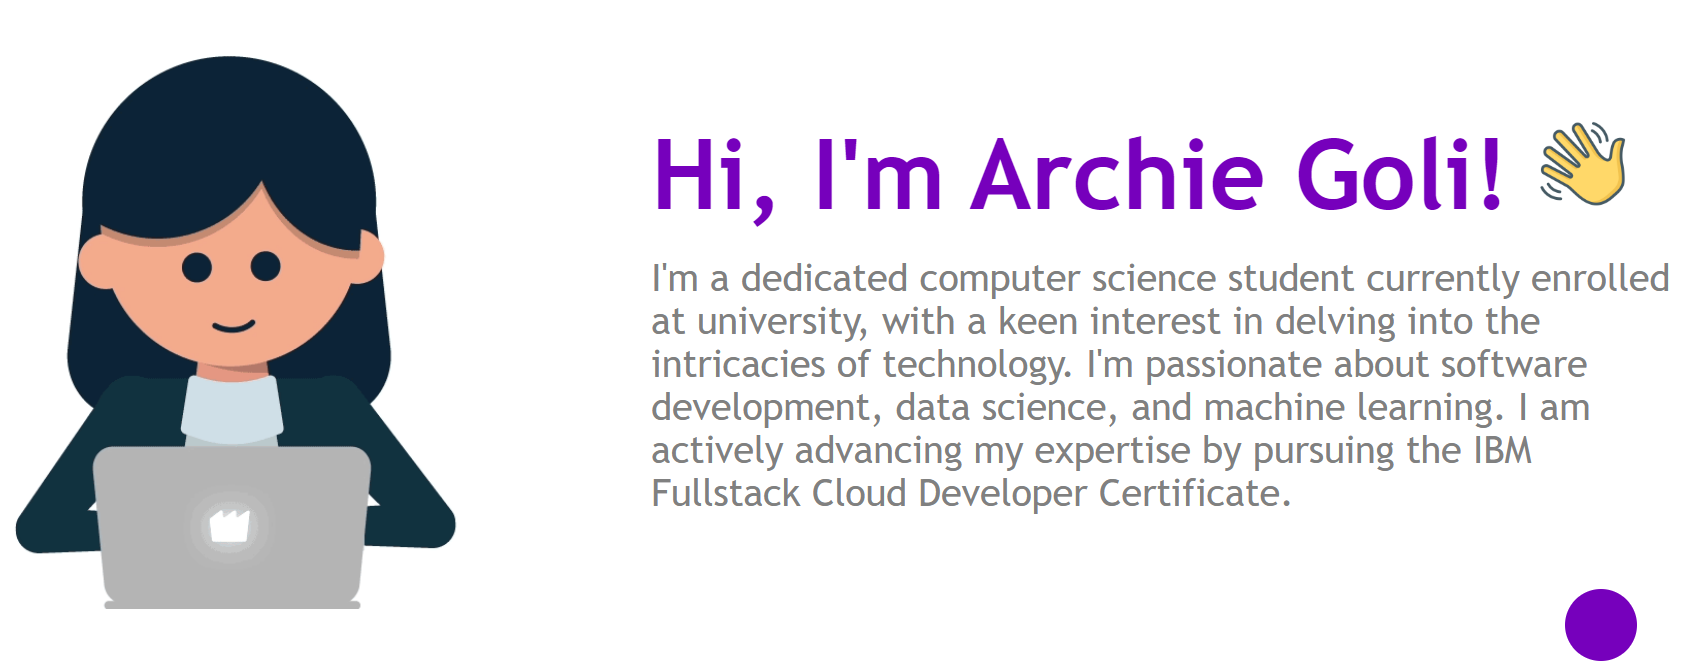
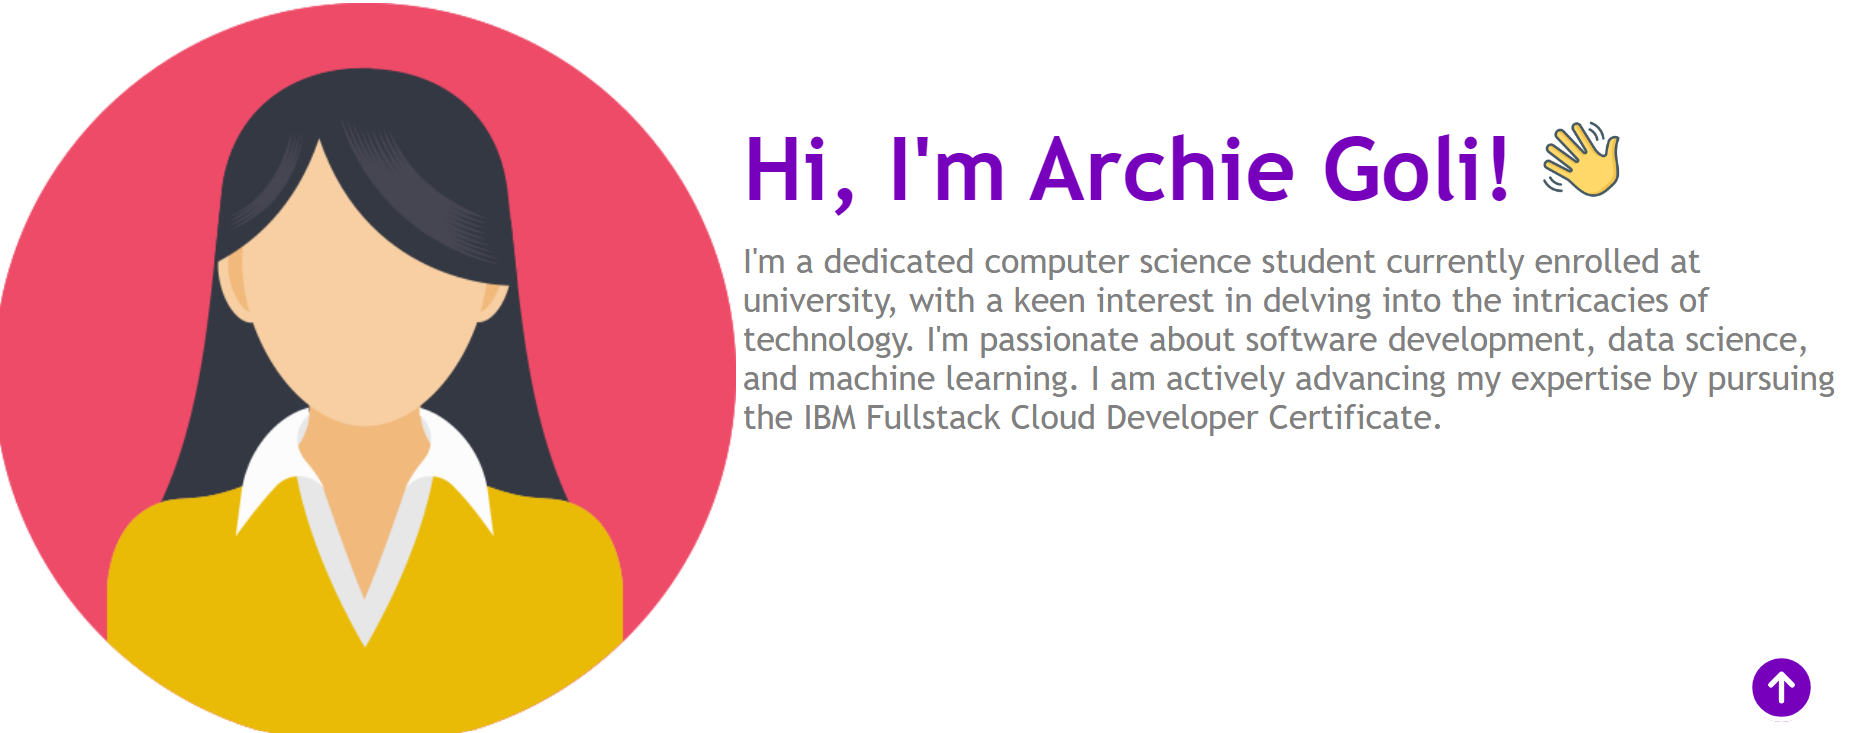
swap aboutme.png

diff --git a/index.html b/index.html
@@ -34,7 +34,7 @@
     <!-- About Me -->
     <section id="about-me" class="container">
       <div>
-        <img src="https://miro.medium.com/max/1400/1*qdAW1TjCN57h1lbuuzvchg.gif" class="profile_image"/>
+        <img src="https://cdn-icons-png.flaticon.com/512/6997/6997662.png" class="profile_image"/>
       </div>
 
       <div>
